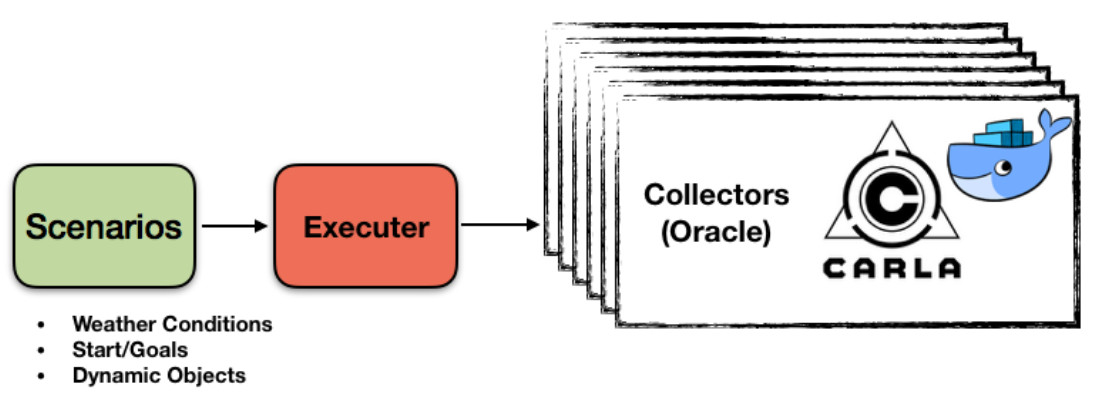
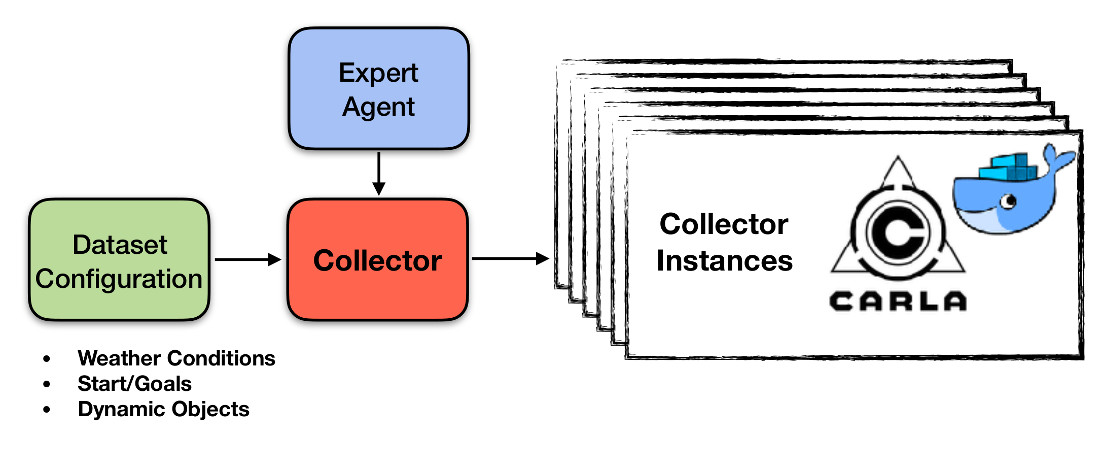
adding overview section, improving agent explanation

Changed region(s): [[0.0, 0.0293, 0.9927, 0.9389]]

diff --git a/docs/dataset_format_description.md b/docs/dataset_format_description.md
@@ -77,11 +77,13 @@ the [configuration file](../dataset_configurations/coil_training_dataset_singlec
 
 Measurements represent all the float data collected for each simulation
 step. Each measurement is associated with the respective sensor data.
+The units of the measurements are on SI format, otherwise we specify
+the format.
 All measurements are stored in json files and contain the
 following information:
 
 * Step Number: the number of the current simulation step, starts at zero and is incremented by one for every simulation step.
-* Game Timestamp: the time that has passed since the simulation has started.
+* Game Timestamp: the time that has passed since the simulation has started. Expressed on miliseconds.
 * Position: the world position of the ego-vehicle. It is expressed as a three dimensional vector (x,y,z) in meters.
 * Orientation: the orientation of the vehicle with respect
     to the world. Expressed as Euler angles (row, pitch and yaw).
@@ -95,9 +97,11 @@ following information:
     could pick any option). These commands are encoded as an
     integer number. 2 is do not care, 3 for turn left, 4 for turn right, 5 for go straight.
 * Waypoints: a set containing the 10 future positions of the vehicle.
-* Steering Angle: the current angle of the vehicle's steering wheel.
-* Throttle: the current pressure on the throttle pedal.
-* Brake: the current pressure on the brake pedal.
+* Steering Angle: the current angle of the vehicle's steering wheel. Normalized from -1 to 1
+* Throttle: the current pressure on the throttle pedal. Normalized
+from 0 to 1.
+* Brake: the current pressure on the brake pedal.Normalized
+from 0 to 1.
 * Hand Brake: if the hand brake is activated.
 * Steer Noise: the current steering angle in the vehicle considering the noise function.
 * Throttle Noise: the current pressure on the throttle pedal considering the noise function.

diff --git a/README.md b/README.md
@@ -6,13 +6,32 @@ The data collected follows [this format](docs/dataset_format_description.md).
 
 This repository contains the following features:
 
-* An expert demonstrator for data collection, [documented here](agent_module.md).
+* An expert demonstrator for data collection, [documented here](docs/agent_module.md).
 * The possibility to launch several CARLAs with docker for systems
 with many GPUs to do scale up data collection.
 * We also provide a version of CARLA's release 0.8.4 that does not switch gears. We call it CARLA Gear. This problem is discussed in [this issue](https://github.com/carla-simulator/carla/issues/269).
 
 
+
+System Overview
+---------------
+
 ![Overview](docs/img/main_diagram.jpg)
+
+The data collection is divided into a set of episodes performed
+by an [expert hardcoded driver](docs/agent_module.md) to follow.
+
+The user can configure a [dataset configuration file](dataset_configurations/coil_training_dataset_singlecamera.py).
+This file contains a set of start/end positions, weathers and
+ number of dynamic objects to appear on every data collection episode.
+Further, the user also configure a [CARLA settings](https://carla.readthedocs.io/en/latest/cameras_and_sensors/) object containing
+all the sensors that are going to be collected on this dataset.
+
+
+This configuration file and the expert demonstrator
+ are used inside a collector module that is replicated
+ on several docker instances. This instances produce a dataset
+ on some [specific format](docs/dataset_format_description.md).
 
 
 Getting Started

diff --git a/docs/agent_module.md b/docs/agent_module.md
@@ -20,18 +20,29 @@ goal.
 * A  PID controller generates the throttle, brake, and steering based
 on the waypoints.
 * The expert drives on the center of the lane.
-* Keeps a constant speed of 35 km/h when driving straight and reduces the
+* The expert keeps a constant speed of 35 km/h when driving straight and reduces the
 speed when making turns to about 15 km/h.
+
+
 
 
 #### Obstacle Avoidance
 
 The agent has the following obstacle avoidance behaviours:
 
-* Reduce speed for pedestrians from 5 to 15 meters away
+* Reduce speed for pedestrians that are from 5 to 15 meters away
 * Completely stop for pedestrians closer than 5 meters away.
 * Follows lead vehicle, imitating the lead vehicle speed.
 * Stop for red traffic lights.
+
+To compute all the obstacle avoidance behaviors the position and
+ orientation of the ego-car on the map are used. The position
+ of all the other objects(vehicles pedestrians and traffic lights),
+  are also used. A  semi-circle
+  is computed on the direction of the ego-car orientation.
+   The semi-circle size is proportional to the distance where the
+   other dynamic objects are. If this semi circle interesects
+   with an object, the ego-car reacts to it.
 
 
 #### Noiser
